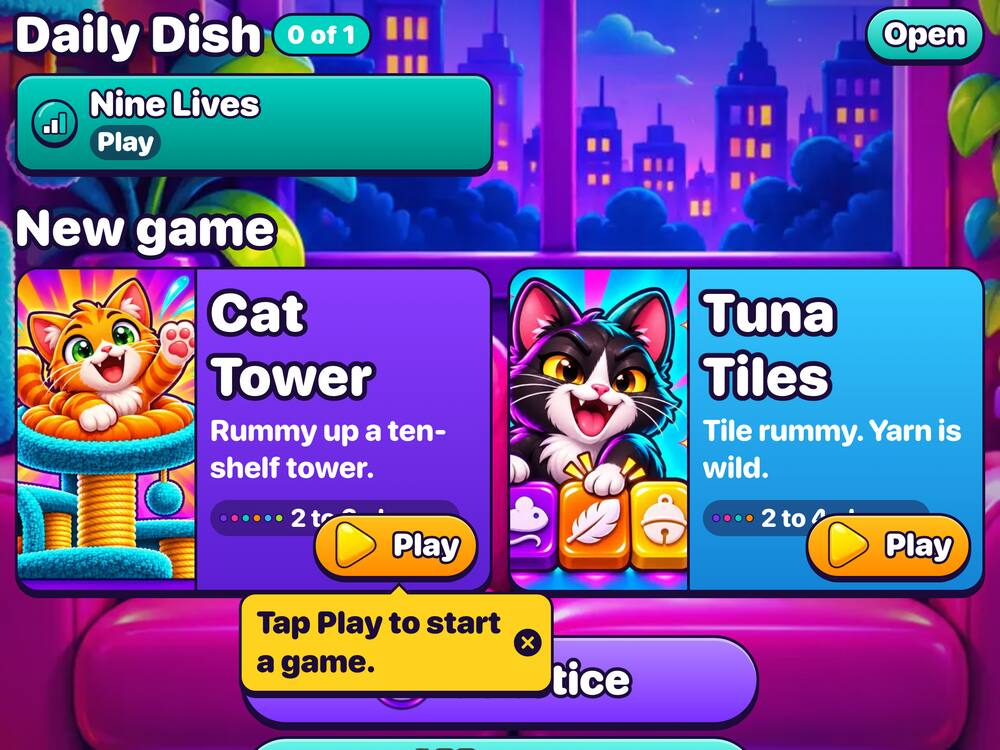
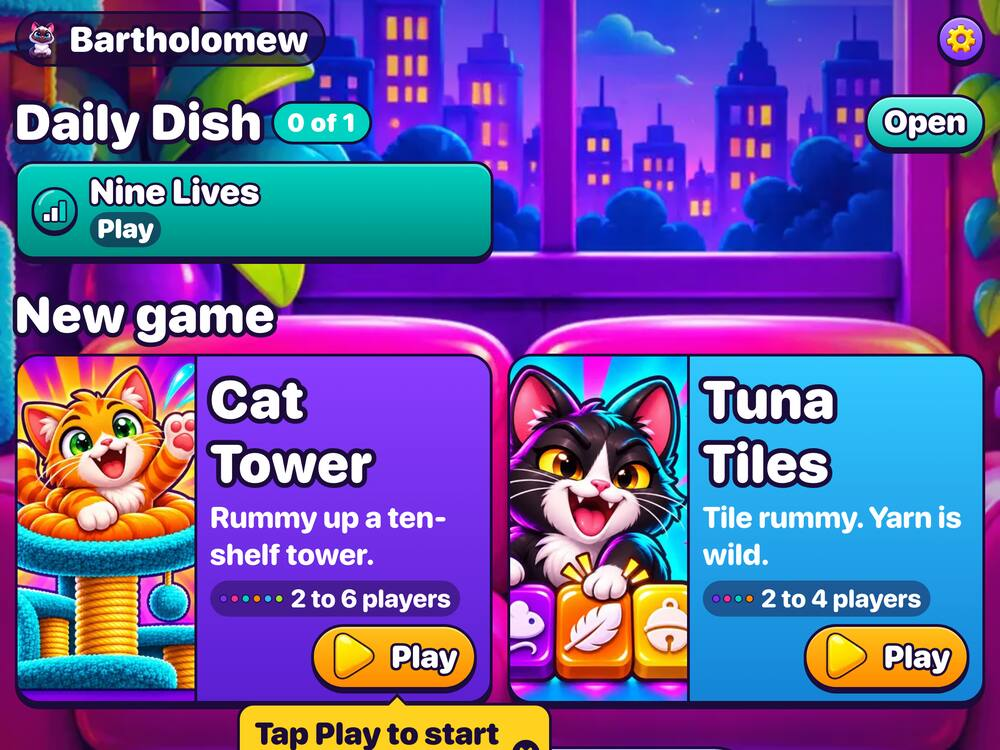
Posters keep Play off the player count, and Home starts at its top
- A game poster's Play sits in its foot, in the flow, beside the player count while they fit and
  under it when they don't, instead of pinned over a fixed 58px corner that large text outgrew
  (Home and the TV-link page; the compact phone posters stack a full-width Play under the count).
- Home on a laptop or iPad landscape centers with `safe center`, so when it is taller than the
  window (the largest text) it starts at its top and scrolls instead of centering its top bar out
  of reach.
- The unused `.dock` rules are gone.
- The largest-text e2e checks every poster's Play against its count and Home's top bar; both fail
  on the old CSS. The shot tool gains a "posters" step.

diff --git a/apps/play-web/src/ui/screens.css b/apps/play-web/src/ui/screens.css
@@ -381,7 +381,7 @@
   position: relative;
   display: grid;
   grid-template-columns: minmax(100px, 38%) 1fr;
-  align-items: center;
+  align-items: stretch;
   overflow: hidden;
   border: 3px solid var(--ink);
   border-radius: 26px;
@@ -401,8 +401,13 @@
   border-right: 3px solid var(--ink);
 }
 
+/* The poster's words, then its foot: the player count and Play, side by side while they fit and
+   one over the other when they don't (large text), always in the flow so nothing covers the count. */
 .poster-body {
-  padding: 12px 14px 58px;
+  display: flex;
+  flex-direction: column;
+  min-width: 0;
+  padding: 12px 14px;
 }
 
 .poster h3 {
@@ -437,32 +442,21 @@
   border-radius: 50%;
 }
 
-.poster-play {
-  position: absolute;
-  right: 12px;
-  bottom: 12px;
+.poster-foot {
+  display: flex;
+  flex-wrap: wrap;
+  align-items: center;
+  justify-content: space-between;
+  gap: 8px;
+  margin-top: auto;
 }
 
-.dock {
-  position: sticky;
-  bottom: 0;
-  display: grid;
-  grid-template-columns: 1fr 1fr;
-  gap: 12px;
-  max-width: 560px !important;
-  margin-top: auto;
-  padding-top: 10px;
+.poster-play {
+  margin-left: auto;
 }
 
 .home-section {
   flex: none;
-}
-
-.dock .btn {
-  min-width: 0;
-  padding-left: 12px;
-  padding-right: 12px;
-  font-size: clamp(1.05rem, 4.8vw, 1.45rem);
 }
 
 /* Join. */
@@ -1014,20 +1008,17 @@
   background: rgba(255, 59, 78, 0.35);
 }
 
-/* A laptop or a monitor: Home's shelf sits in the middle of the room, not at its top. */
+/* A laptop or a monitor: Home's shelf sits in the middle of the room, not at its top. "safe": when
+   Home is taller than the window (large text), it starts at the top and scrolls, rather than
+   centering its top out of reach. */
 @media (min-width: 900px) and (min-height: 640px) {
   .home {
-    justify-content: center;
+    justify-content: safe center;
     gap: 28px;
   }
 
   .home .room-bg {
     background-position: center 30%;
-  }
-
-  .home .dock {
-    position: static;
-    margin-top: 8px;
   }
 
   .poster-art {

diff --git a/apps/play-web/e2e/daily.spec.ts b/apps/play-web/e2e/daily.spec.ts
@@ -208,7 +208,7 @@ async function box(page: Page, selector: string): Promise<Box> {
   return b!;
 }
 
-test("at the largest text nothing clips or overlaps: Home, the Dish's tip, a puzzle's bar", async ({ browser }) => {
+test("at the largest text nothing clips or overlaps: Home and its posters, the Dish's tip, a puzzle's bar", async ({ browser }) => {
   const lu = await newPlayer(browser, "Lu");
   const { page, context } = lu;
   // A TV shows the board, so the puzzle's bar carries the TV switch as well as Give up: the
@@ -224,11 +224,20 @@ test("at the largest text nothing clips or overlaps: Home, the Dish's tip, a puz
 
   // Home: Practice and Join never sit over a game, and their words fit.
   await expect(page.getByRole("button", { name: "Practice" })).toBeVisible();
+  // Home starts at its top: nothing is centered up out of reach.
+  expect((await box(page, ".home-top")).y, "Home's top bar on screen").toBeGreaterThanOrEqual(0);
   for (const name of ["Practice", "Join"]) {
     const button = page.getByRole("navigation", { name: "Start" }).getByRole("button", { name });
     const b = (await button.boundingBox())!;
     for (const other of await page.locator(".poster, .dd-tile").all()) expect(overlaps(b, (await other.boundingBox())!), `${name} over a game`).toBe(false);
     expect(await button.evaluate((e) => e.scrollWidth <= e.clientWidth + 1), `${name} fits`).toBe(true);
+  }
+
+  // Each game's poster: Play never covers its player count.
+  for (const poster of await page.locator(".poster").all()) {
+    const count = (await poster.locator(".players").boundingBox())!;
+    const play = (await poster.getByRole("button").boundingBox())!;
+    expect(overlaps(count, play), "Play over the player count").toBe(false);
   }
 
   // The Dish: its first-visit tip points at the first card without hiding the board's heading.

diff --git a/apps/play-web/src/ui/home.tsx b/apps/play-web/src/ui/home.tsx
@@ -149,20 +149,22 @@ export function Posters(props: { onPlay: (game: GameId) => void; firstId?: strin
           <div class="poster-body">
             <h3 class="outlined">{CATALOG[id].title}</h3>
             <p>{CATALOG[id].tagline}</p>
-            <span class="players">
-              <Dots n={CATALOG[id].maxSeats} /> {CATALOG[id].minSeats} to {CATALOG[id].maxSeats} players
-            </span>
+            <div class="poster-foot">
+              <span class="players">
+                <Dots n={CATALOG[id].maxSeats} /> {CATALOG[id].minSeats} to {CATALOG[id].maxSeats} players
+              </span>
+              <Button
+                size="small"
+                class="poster-play"
+                id={i === 0 ? props.firstId : undefined}
+                disabled={props.disabled}
+                onClick={() => props.onPlay(id)}
+                aria-label={`Play ${CATALOG[id].title}`}
+              >
+                <Icon name="icon-play" size={26} /> Play
+              </Button>
+            </div>
           </div>
-          <Button
-            size="small"
-            class="poster-play"
-            id={i === 0 ? props.firstId : undefined}
-            disabled={props.disabled}
-            onClick={() => props.onPlay(id)}
-            aria-label={`Play ${CATALOG[id].title}`}
-          >
-            <Icon name="icon-play" size={26} /> Play
-          </Button>
         </article>
       ))}
     </div>

diff --git a/apps/play-web/src/daily/daily.css b/apps/play-web/src/daily/daily.css
@@ -141,7 +141,13 @@
   }
 
   .poster-grid.compact .poster-body {
-    padding: 8px 10px 56px;
+    flex: 1;
+    padding: 8px 10px 10px;
+  }
+
+  .poster-grid.compact .poster-foot {
+    flex-direction: column;
+    align-items: flex-start;
   }
 
   .poster-grid.compact .poster h3 {
@@ -162,9 +168,8 @@
   }
 
   .poster-grid.compact .poster-play {
-    left: 10px;
-    right: 10px;
-    bottom: 10px;
+    align-self: stretch;
+    margin-left: 0;
     min-height: 44px;
   }
 }
